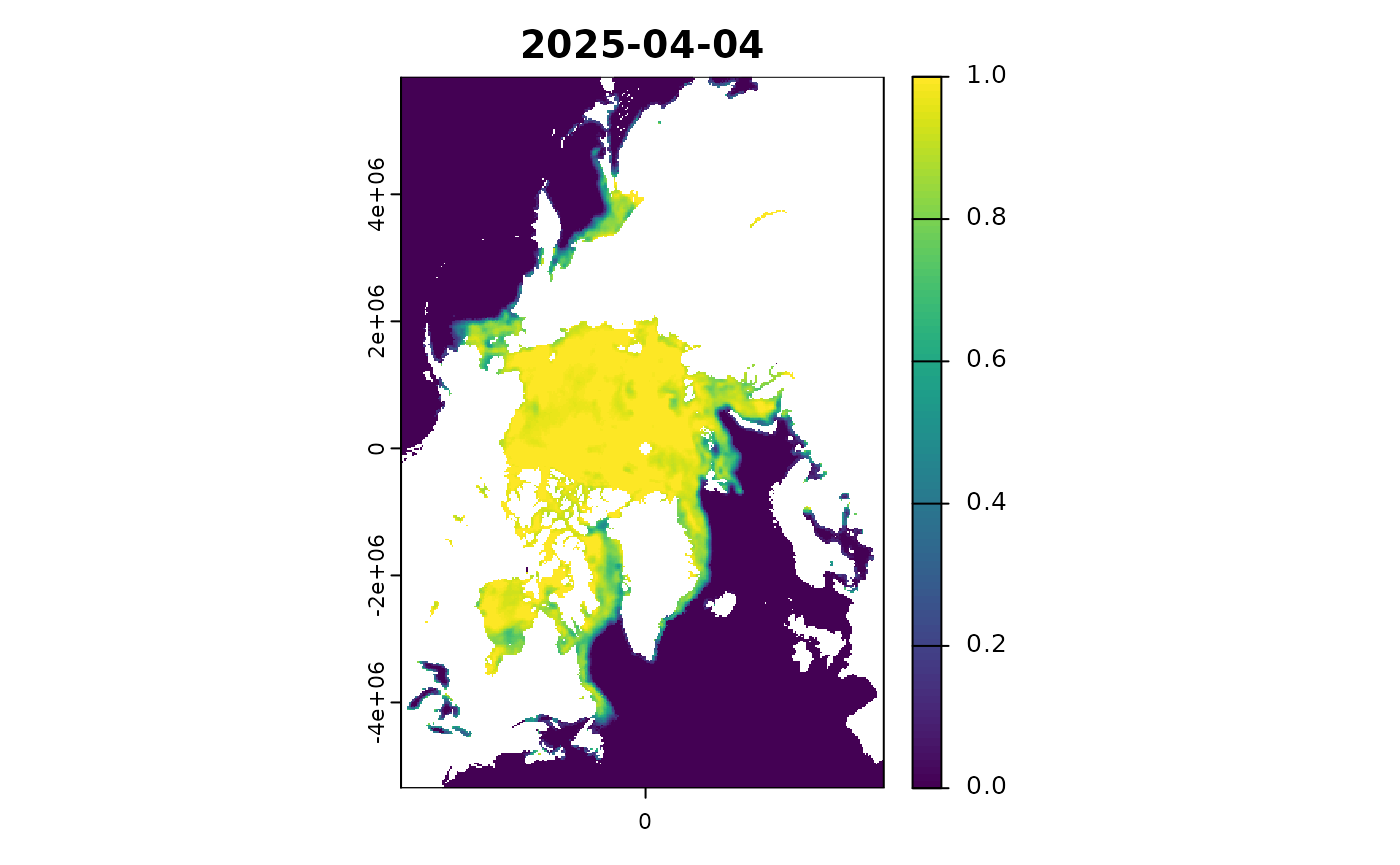
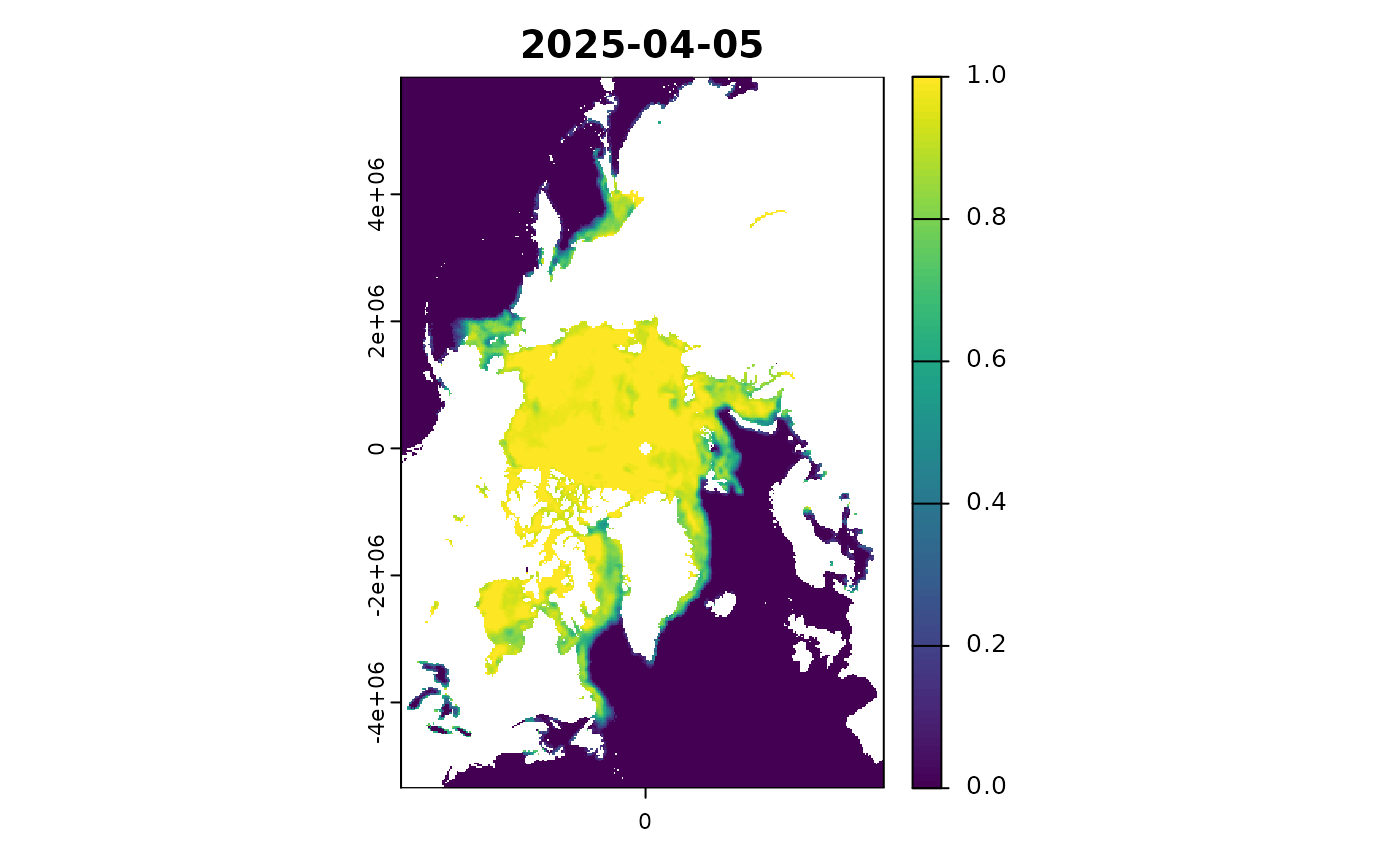
Deploying to gh-pages from @ mdsumner/sooty.watch@ab9be34b8edc25c5614bd5cd817973bccfec8bf4 🚀

diff --git a/articles/sooty-watch.html b/articles/sooty-watch.html
@@ -90,10 +90,10 @@
 <span><span class="co">#&gt;   Dataset                        mindate             maxdate                 n</span></span>
 <span><span class="co">#&gt;   <span style="color: #949494; font-style: italic;">&lt;chr&gt;</span>                          <span style="color: #949494; font-style: italic;">&lt;dttm&gt;</span>              <span style="color: #949494; font-style: italic;">&lt;dttm&gt;</span>              <span style="color: #949494; font-style: italic;">&lt;int&gt;</span></span></span>
 <span><span class="co">#&gt; <span style="color: #BCBCBC;">1</span> SEALEVEL_GLO_PHY_L4            1993-01-01 <span style="color: #949494;">00:00:00</span> 2025-04-06 <span style="color: #949494;">00:00:00</span> <span style="text-decoration: underline;">11</span>670</span></span>
-<span><span class="co">#&gt; <span style="color: #BCBCBC;">2</span> antarctica-amsr2-asi-s3125-tif 2012-07-02 <span style="color: #949494;">00:00:00</span> 2025-04-05 <span style="color: #949494;">00:00:00</span>  <span style="text-decoration: underline;">4</span>650</span></span>
-<span><span class="co">#&gt; <span style="color: #BCBCBC;">3</span> ghrsst-tif                     2002-06-01 <span style="color: #949494;">00:00:00</span> 2025-04-05 <span style="color: #949494;">00:00:00</span>  <span style="text-decoration: underline;">3</span>485</span></span>
-<span><span class="co">#&gt; <span style="color: #BCBCBC;">4</span> NSIDC_SEAICE_PS_N25km          1978-10-26 <span style="color: #949494;">00:00:00</span> 2025-04-04 <span style="color: #949494;">00:00:00</span> <span style="text-decoration: underline;">16</span>957</span></span>
-<span><span class="co">#&gt; <span style="color: #BCBCBC;">5</span> NSIDC_SEAICE_PS_S25km          1978-10-26 <span style="color: #949494;">00:00:00</span> 2025-04-04 <span style="color: #949494;">00:00:00</span> <span style="text-decoration: underline;">16</span>957</span></span>
+<span><span class="co">#&gt; <span style="color: #BCBCBC;">2</span> antarctica-amsr2-asi-s3125-tif 2012-07-02 <span style="color: #949494;">00:00:00</span> 2025-04-06 <span style="color: #949494;">00:00:00</span>  <span style="text-decoration: underline;">4</span>651</span></span>
+<span><span class="co">#&gt; <span style="color: #BCBCBC;">3</span> NSIDC_SEAICE_PS_N25km          1978-10-26 <span style="color: #949494;">00:00:00</span> 2025-04-05 <span style="color: #949494;">00:00:00</span> <span style="text-decoration: underline;">16</span>958</span></span>
+<span><span class="co">#&gt; <span style="color: #BCBCBC;">4</span> NSIDC_SEAICE_PS_S25km          1978-10-26 <span style="color: #949494;">00:00:00</span> 2025-04-05 <span style="color: #949494;">00:00:00</span> <span style="text-decoration: underline;">16</span>958</span></span>
+<span><span class="co">#&gt; <span style="color: #BCBCBC;">5</span> ghrsst-tif                     2002-06-01 <span style="color: #949494;">00:00:00</span> 2025-04-05 <span style="color: #949494;">00:00:00</span>  <span style="text-decoration: underline;">3</span>485</span></span>
 <span><span class="co">#&gt; <span style="color: #BCBCBC;">6</span> oisst-avhrr-v02r01             1981-09-01 <span style="color: #949494;">00:00:00</span> 2025-04-04 <span style="color: #949494;">00:00:00</span> <span style="text-decoration: underline;">15</span>922</span></span>
 <span><span class="co">#&gt; <span style="color: #BCBCBC;">7</span> oisst-tif                      1981-09-01 <span style="color: #949494;">00:00:00</span> 2025-04-04 <span style="color: #949494;">00:00:00</span> <span style="text-decoration: underline;">15</span>922</span></span>
 <span></span>
@@ -101,11 +101,11 @@
 <span><span class="co">#&gt; <span style="color: #949494;"># A tibble: 7 × 2</span></span></span>
 <span><span class="co">#&gt;   Bucket                                                n</span></span>
 <span><span class="co">#&gt;   <span style="color: #949494; font-style: italic;">&lt;chr&gt;</span>                                             <span style="color: #949494; font-style: italic;">&lt;int&gt;</span></span></span>
-<span><span class="co">#&gt; <span style="color: #BCBCBC;">1</span> idea-10.5067-mpyg15waa4wx                         <span style="text-decoration: underline;">33</span>914</span></span>
+<span><span class="co">#&gt; <span style="color: #BCBCBC;">1</span> idea-10.5067-mpyg15waa4wx                         <span style="text-decoration: underline;">33</span>916</span></span>
 <span><span class="co">#&gt; <span style="color: #BCBCBC;">2</span> idea-10.7289-v5sq8xb5                             <span style="text-decoration: underline;">15</span>922</span></span>
 <span><span class="co">#&gt; <span style="color: #BCBCBC;">3</span> idea-oisst                                        <span style="text-decoration: underline;">15</span>922</span></span>
 <span><span class="co">#&gt; <span style="color: #BCBCBC;">4</span> idea-sealevel-glo-phy-l4-rep-observations-008-047 <span style="text-decoration: underline;">11</span>208</span></span>
-<span><span class="co">#&gt; <span style="color: #BCBCBC;">5</span> idea-amsr2-asi-s3125                               <span style="text-decoration: underline;">4</span>650</span></span>
+<span><span class="co">#&gt; <span style="color: #BCBCBC;">5</span> idea-amsr2-asi-s3125                               <span style="text-decoration: underline;">4</span>651</span></span>
 <span><span class="co">#&gt; <span style="color: #BCBCBC;">6</span> idea-ghrsst                                        <span style="text-decoration: underline;">3</span>485</span></span>
 <span><span class="co">#&gt; <span style="color: #BCBCBC;">7</span> idea-sealevel-glo-phy-l4-nrt-008-046                462</span></span></code></pre></div>
 <p>For each dataset, let’s get the first and last and plot.</p>

diff --git a/reference/watch.html b/reference/watch.html
@@ -73,10 +73,10 @@
 <span class="r-out co"><span class="r-pr">#&gt;</span>   Dataset                        mindate             maxdate                 n</span>
 <span class="r-out co"><span class="r-pr">#&gt;</span>   <span style="color: #949494; font-style: italic;">&lt;chr&gt;</span>                          <span style="color: #949494; font-style: italic;">&lt;dttm&gt;</span>              <span style="color: #949494; font-style: italic;">&lt;dttm&gt;</span>              <span style="color: #949494; font-style: italic;">&lt;int&gt;</span></span>
 <span class="r-out co"><span class="r-pr">#&gt;</span> <span style="color: #BCBCBC;">1</span> SEALEVEL_GLO_PHY_L4            1993-01-01 <span style="color: #949494;">00:00:00</span> 2025-04-06 <span style="color: #949494;">00:00:00</span> <span style="text-decoration: underline;">11</span>670</span>
-<span class="r-out co"><span class="r-pr">#&gt;</span> <span style="color: #BCBCBC;">2</span> antarctica-amsr2-asi-s3125-tif 2012-07-02 <span style="color: #949494;">00:00:00</span> 2025-04-05 <span style="color: #949494;">00:00:00</span>  <span style="text-decoration: underline;">4</span>650</span>
-<span class="r-out co"><span class="r-pr">#&gt;</span> <span style="color: #BCBCBC;">3</span> ghrsst-tif                     2002-06-01 <span style="color: #949494;">00:00:00</span> 2025-04-05 <span style="color: #949494;">00:00:00</span>  <span style="text-decoration: underline;">3</span>485</span>
-<span class="r-out co"><span class="r-pr">#&gt;</span> <span style="color: #BCBCBC;">4</span> NSIDC_SEAICE_PS_N25km          1978-10-26 <span style="color: #949494;">00:00:00</span> 2025-04-04 <span style="color: #949494;">00:00:00</span> <span style="text-decoration: underline;">16</span>957</span>
-<span class="r-out co"><span class="r-pr">#&gt;</span> <span style="color: #BCBCBC;">5</span> NSIDC_SEAICE_PS_S25km          1978-10-26 <span style="color: #949494;">00:00:00</span> 2025-04-04 <span style="color: #949494;">00:00:00</span> <span style="text-decoration: underline;">16</span>957</span>
+<span class="r-out co"><span class="r-pr">#&gt;</span> <span style="color: #BCBCBC;">2</span> antarctica-amsr2-asi-s3125-tif 2012-07-02 <span style="color: #949494;">00:00:00</span> 2025-04-06 <span style="color: #949494;">00:00:00</span>  <span style="text-decoration: underline;">4</span>651</span>
+<span class="r-out co"><span class="r-pr">#&gt;</span> <span style="color: #BCBCBC;">3</span> NSIDC_SEAICE_PS_N25km          1978-10-26 <span style="color: #949494;">00:00:00</span> 2025-04-05 <span style="color: #949494;">00:00:00</span> <span style="text-decoration: underline;">16</span>958</span>
+<span class="r-out co"><span class="r-pr">#&gt;</span> <span style="color: #BCBCBC;">4</span> NSIDC_SEAICE_PS_S25km          1978-10-26 <span style="color: #949494;">00:00:00</span> 2025-04-05 <span style="color: #949494;">00:00:00</span> <span style="text-decoration: underline;">16</span>958</span>
+<span class="r-out co"><span class="r-pr">#&gt;</span> <span style="color: #BCBCBC;">5</span> ghrsst-tif                     2002-06-01 <span style="color: #949494;">00:00:00</span> 2025-04-05 <span style="color: #949494;">00:00:00</span>  <span style="text-decoration: underline;">3</span>485</span>
 <span class="r-out co"><span class="r-pr">#&gt;</span> <span style="color: #BCBCBC;">6</span> oisst-avhrr-v02r01             1981-09-01 <span style="color: #949494;">00:00:00</span> 2025-04-04 <span style="color: #949494;">00:00:00</span> <span style="text-decoration: underline;">15</span>922</span>
 <span class="r-out co"><span class="r-pr">#&gt;</span> <span style="color: #BCBCBC;">7</span> oisst-tif                      1981-09-01 <span style="color: #949494;">00:00:00</span> 2025-04-04 <span style="color: #949494;">00:00:00</span> <span style="text-decoration: underline;">15</span>922</span>
 </code></pre></div>
